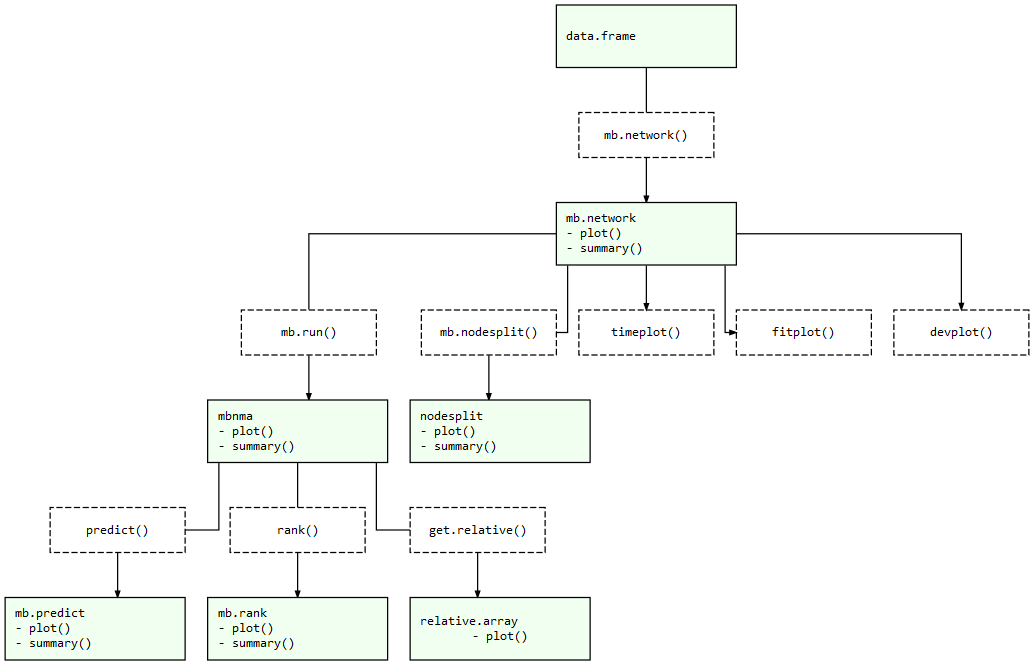
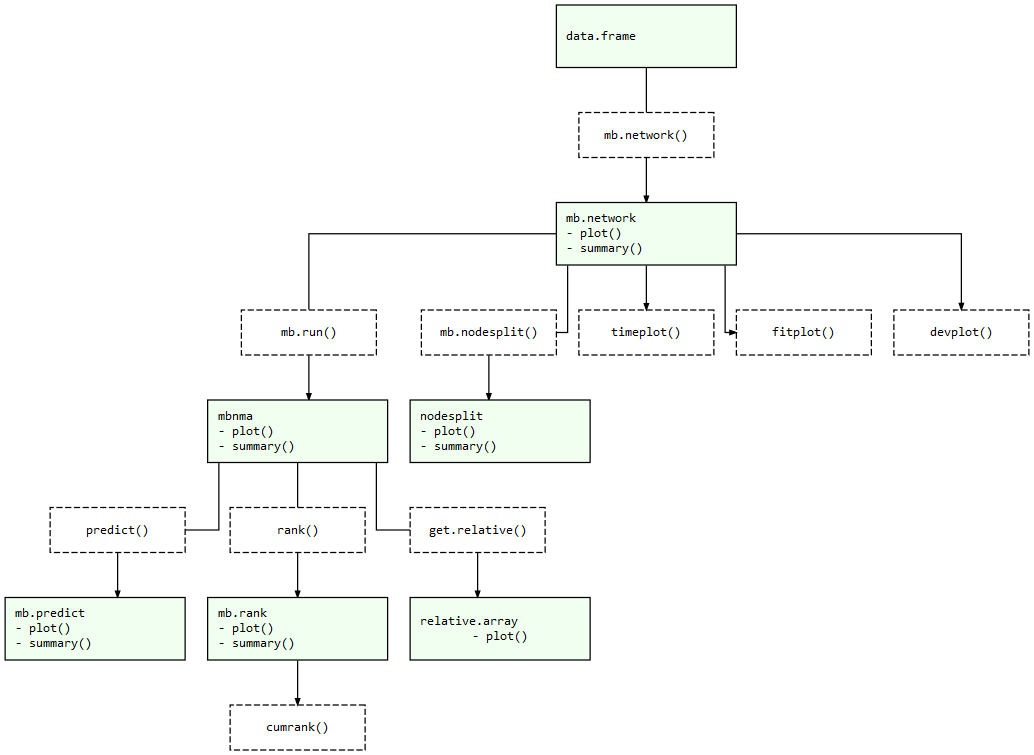
Added details for cumrank plot

diff --git a/NEWS.md b/NEWS.md
@@ -2,6 +2,7 @@
 
 ## Additions/changes
 - `get.relative()` function can be used to calculate relative effects/mean differences between treatments/classes
+- `cumrank()` added for cumulative ranking plots. Also calculates SUCRA values for each treatment and time-course parameter
 at specified follow-up times (even those at which treatments have not been compared within any study)
 - Studies reporting change from baseline or absolute means can now be specified in `mb.network()`, or
 will be automatically inferred from the data (studies with no time=0 are assumed to report change
